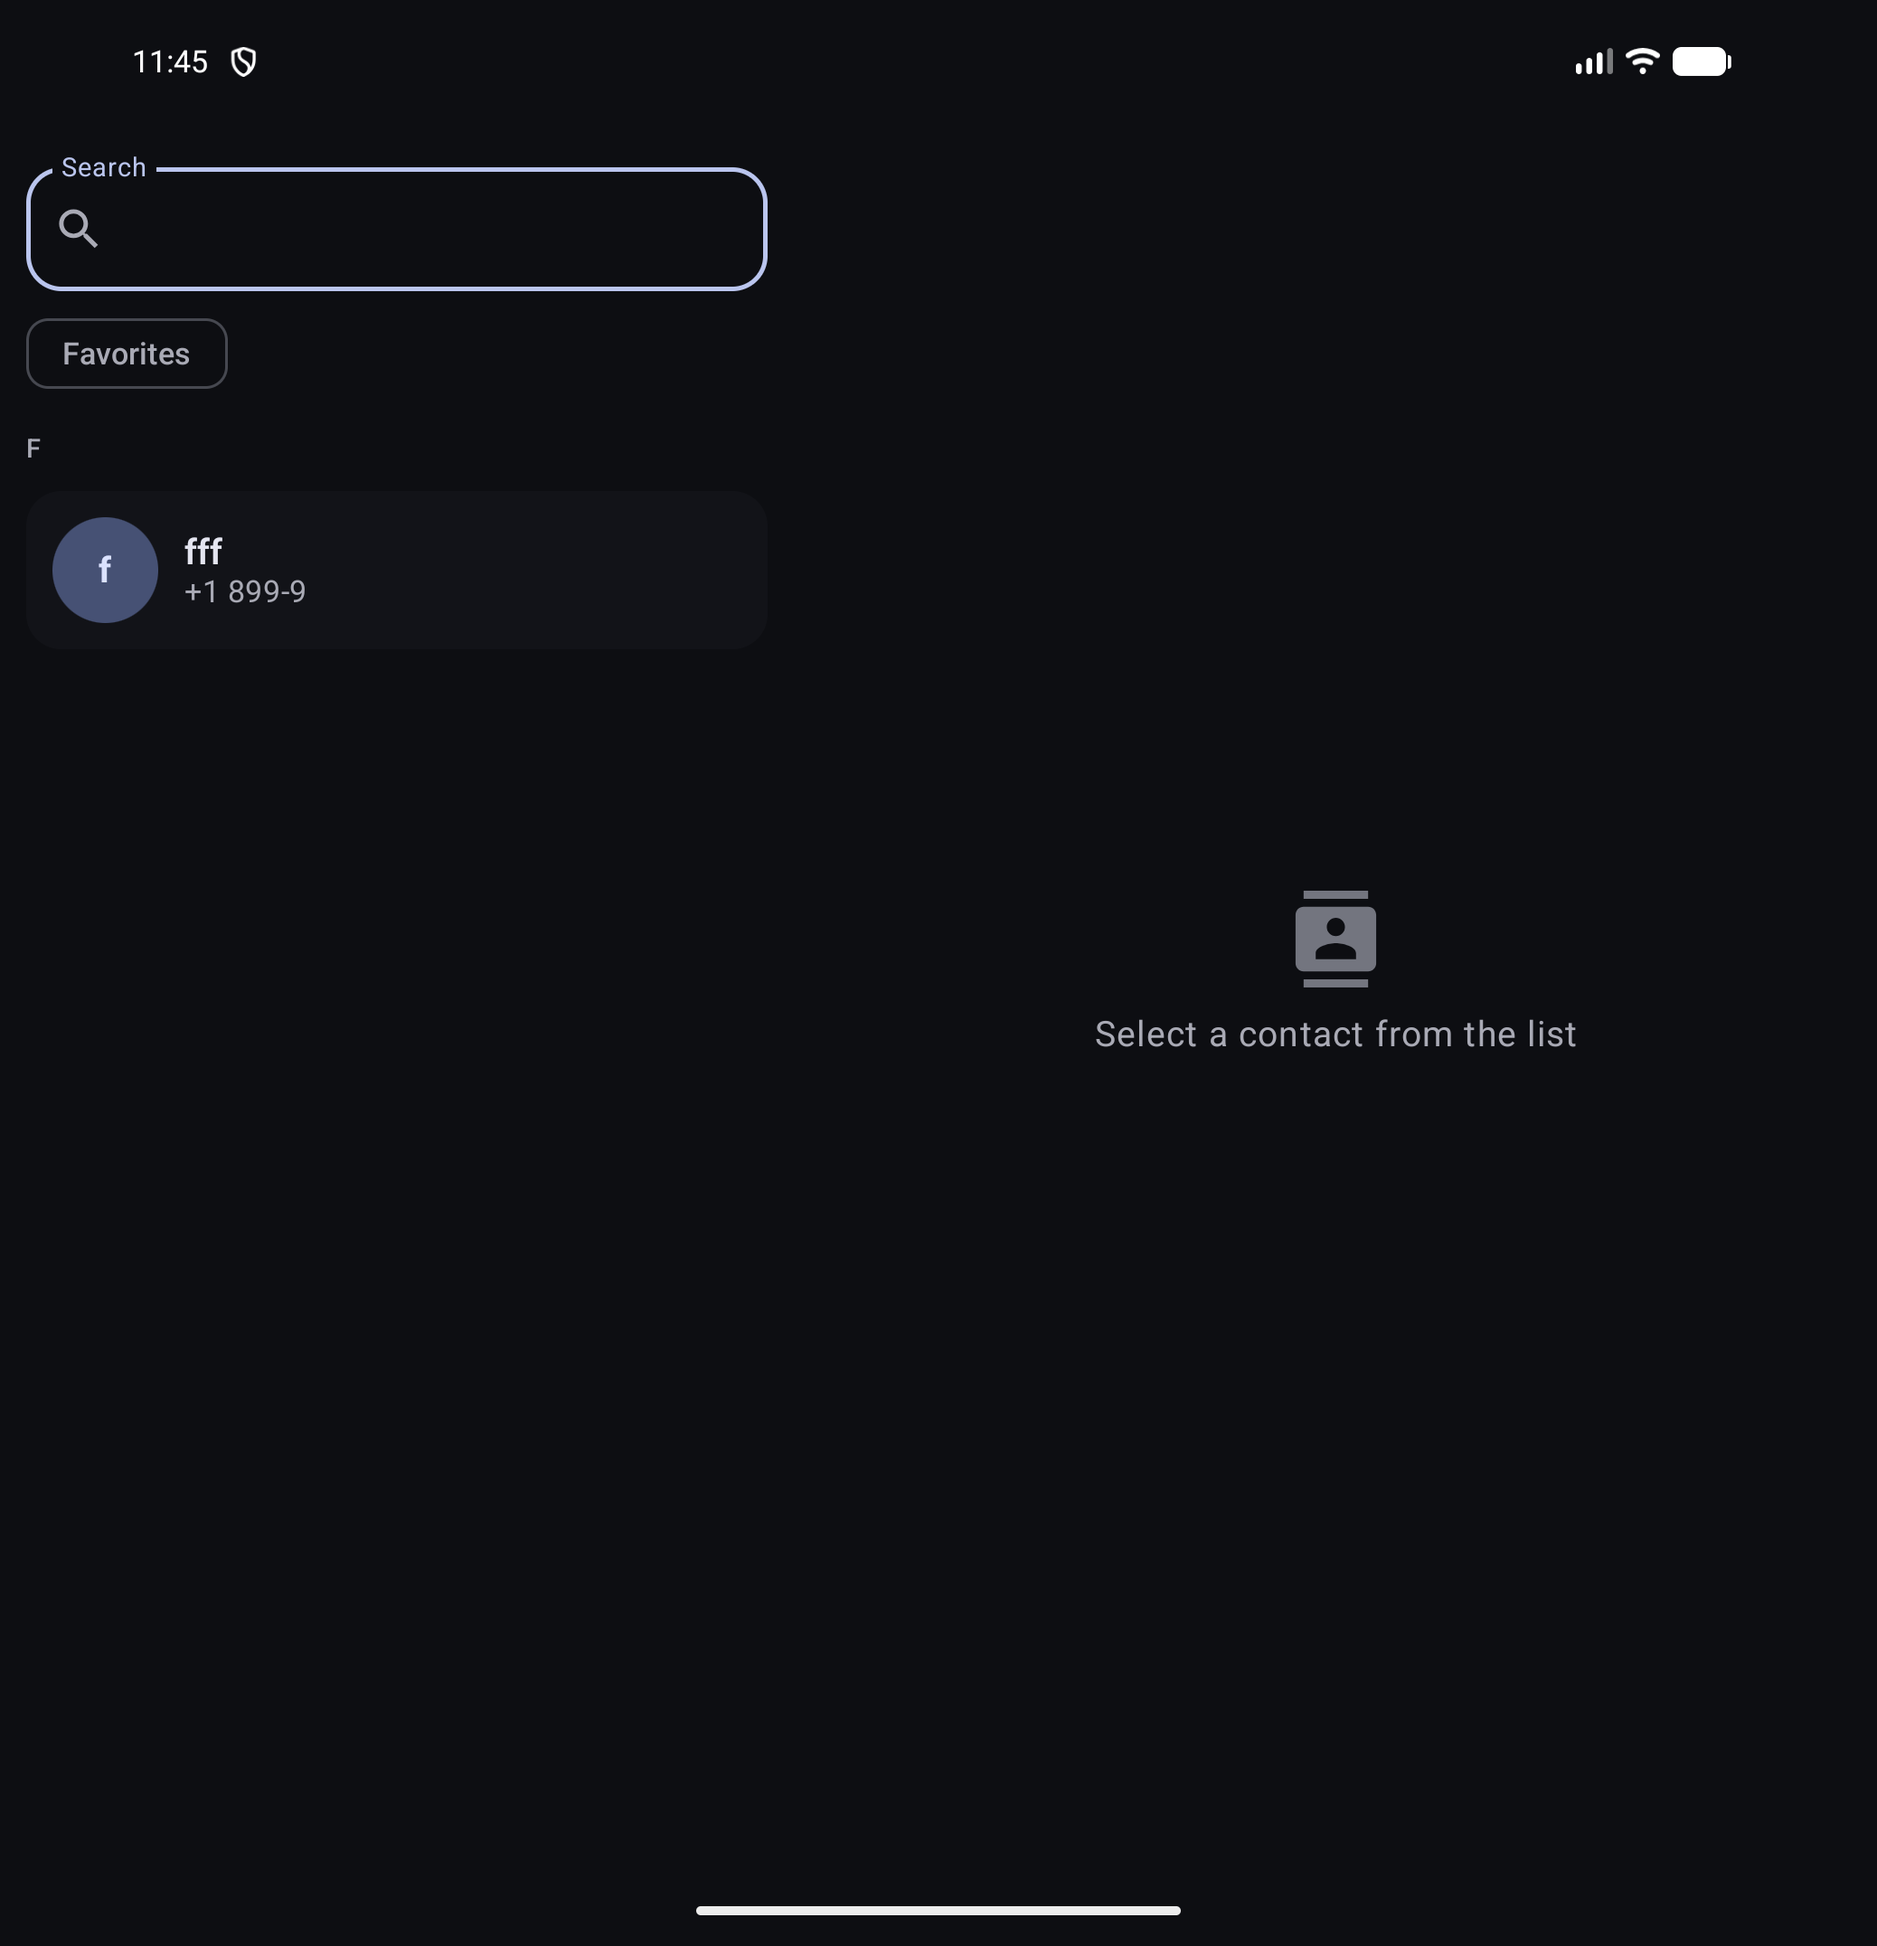
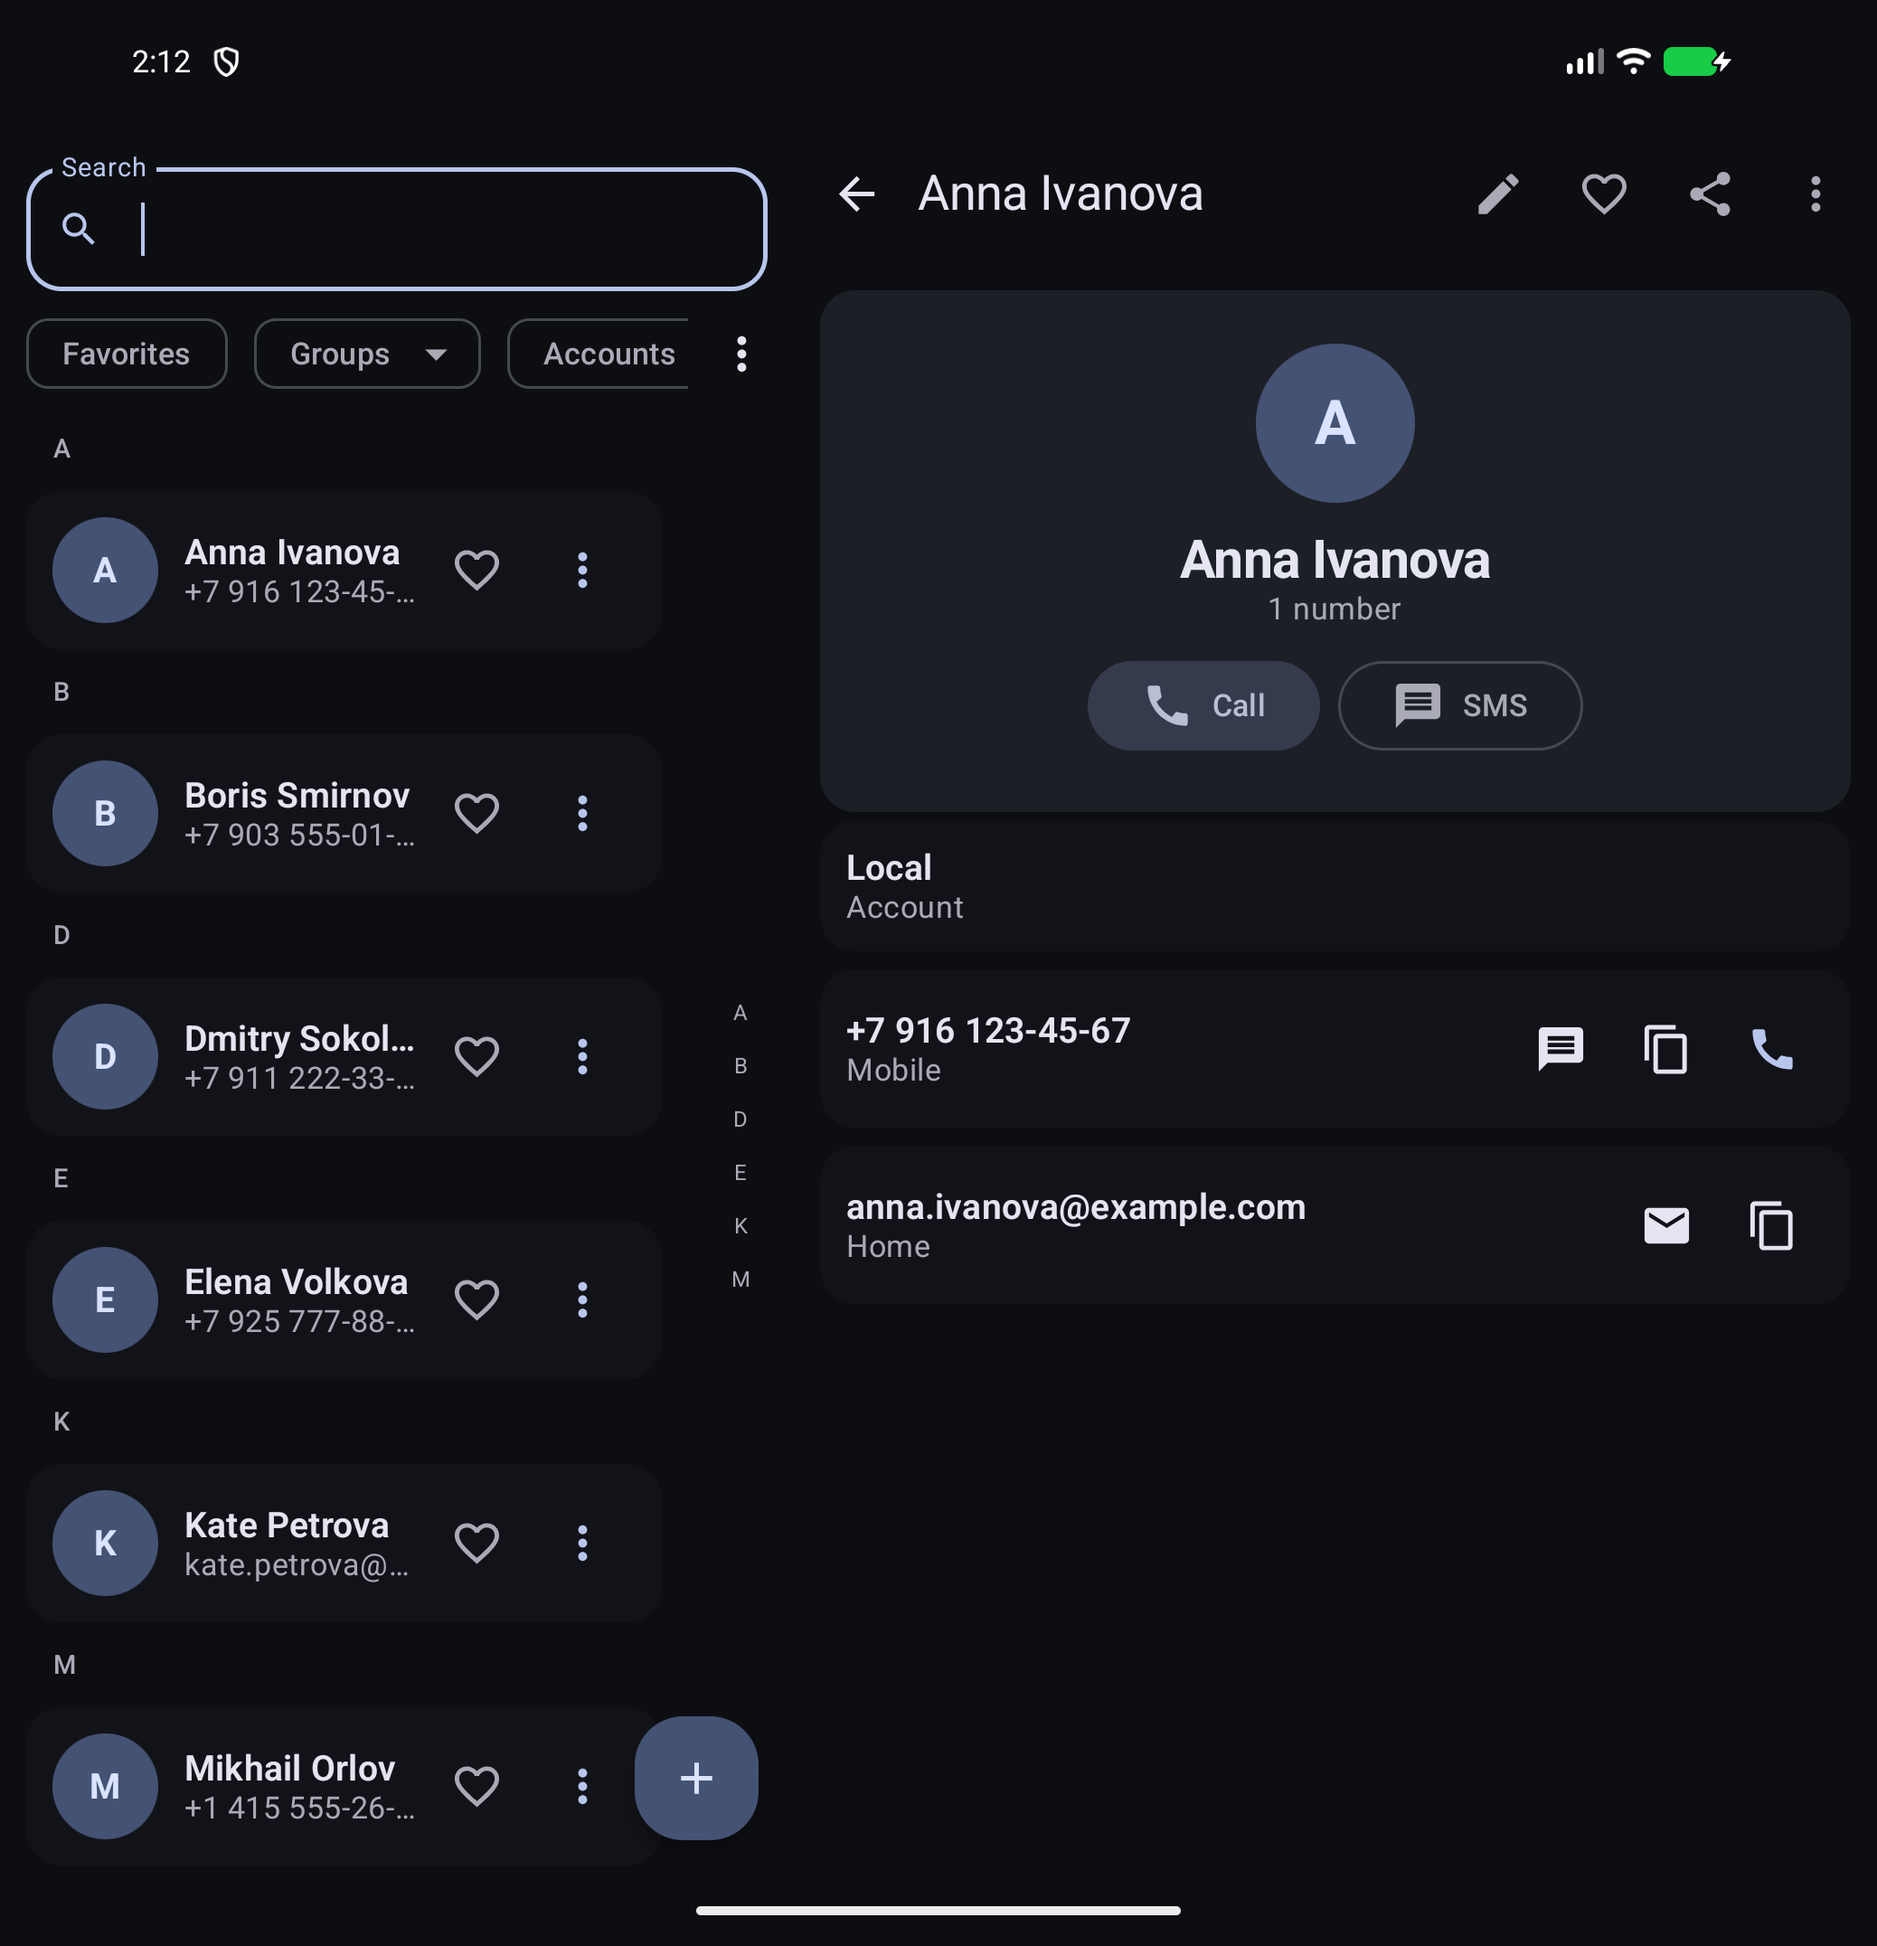
docs: refresh screenshots and test counts in the README
The screenshots predated the second UX pass: they showed the old row layout, the empty detail pane, and a throwaway test contact. Both are retaken on the current UI with realistic demo data — a dark two-pane list on the fold with a selected contact, and a light phone-width details screen. The unit/instrumented counts (775/119) are current after the backlog work; the list and theme bullets mention the row overflow actions, empty-state recovery, and theme-aware system bars.

diff --git a/README.md b/README.md
@@ -8,7 +8,7 @@ A native Android contacts manager built with modern Jetpack libraries and Clean 
 
 ## Features
 
-- Contact list: search by name (including structured name components: given/family/middle/prefix/suffix and their phonetics), phone, email, nickname, relation names, company, address, website, note and group names; favorites filter; group (label) filter from the header chip; account filter; alphabetical grouping with fast scroller; pull-to-refresh; phoneless contacts stay visible; multi-select mode (long press) with select all, batch delete (with confirmation and undo via a snackbar), batch vCard sharing and batch add to a group; import from a .vcf file with a preview of duplicates and invalid entries, export of the selected contacts to a .vcf file; the list is read page by page, so the first rows show up immediately on a large base
+- Contact list: search by name (including structured name components: given/family/middle/prefix/suffix and their phonetics), phone, email, nickname, relation names, company, address, website, note and group names; favorites filter; group (label) filter from the header chip; account filter; alphabetical grouping with fast scroller; pull-to-refresh; phoneless contacts stay visible; multi-select mode (long press or Select all from the header menu) with batch delete (with confirmation and undo via a snackbar), batch vCard sharing and batch add to a group; every row carries an overflow menu with call, SMS, email and copy actions plus a favorites toggle; filtered-out empty states offer one-tap recovery (clear search/filters); import from a .vcf file with a preview of duplicates and invalid entries, export of the selected contacts to a .vcf file; the list is read page by page, so the first rows show up immediately on a large base
 - Contact details: phones, emails, instant messengers, structured addresses (street, city, region, postcode, country), websites, organization (company, title, department), note, birthday, nickname, relations (family, friends, etc.), events (anniversaries and custom dates with labels), the account the contact belongs to and group memberships (labels with account ownership); the primary phone and email are used as the subtitle; call (with confirmation), SMS, email, IM, map, open link and copy actions; "add to calendar" for a birthday and an event (the next occurrence of the date); vCard, plain text and QR code sharing; favorites toggle; copy and move to another account
 - Contact editor: create, update and delete contacts; account picker for new contacts (local storage or a synced account) that remembers the last used account; existing contacts show their account and only offer groups from it; structured name — a single full-name field or given/family/middle/prefix/suffix components with phonetic variants, toggled with an animated chevron; multi-raw contacts are updated consistently (deterministic target raw contact, group membership rows of all raw contacts reconciled); photo pick from the gallery or the camera with cropping and preview, removal and a round write to the provider; dynamic typed rows for phones, emails, instant messengers, addresses, websites, relations and events (with custom labels, optional year for dates and a shared date picker); group membership picker filtered by the contact's account, with inline creation of a new group in that account; nickname field; validation of email, phone, URL and date with a clear message (the values are normalized before they are written: the domain of an email is lower cased, the formatting of a phone is dropped, a site gets the https scheme), an unsaved-changes guard and a warning with a path to merge a likely duplicate
 - Groups (labels): a dedicated screen to create, rename, delete and merge groups with member counts and account labels, opened from the list filter or the filter chip menu; members can be removed from the group screen; group pickers and the group filter distinguish same-name groups from different accounts
@@ -17,7 +17,7 @@ A native Android contacts manager built with modern Jetpack libraries and Clean 
 - Privacy: the PIN lock covers the whole app and asks again when the app is genuinely backgrounded; the PIN is stored as a PBKDF2-HMAC-SHA256 hash with a random salt, not in clear text; after a few wrong attempts the input is blocked for a while; the window can be hidden from the recent apps list with `FLAG_SECURE`
 - Reminders: a daily local notification lists the birthdays and events that are coming up; tapping the notification opens the contact; reminders are restored after reboot and request `POST_NOTIFICATIONS` on Android 13+
 - Home screen: launcher shortcuts (new contact, favorites) and a widget with the favorite contacts
-- Favorites are stored as `STARRED` rows in the provider, so they survive a sync; Material You dynamic color; adaptive two-pane layout on wide screens
+- Favorites are stored as `STARRED` rows in the provider, so they survive a sync; Material You dynamic color; the status/navigation bars follow the app theme; adaptive two-pane layout on wide screens
 
 ## Architecture
 
@@ -60,7 +60,7 @@ Android permissions used: `READ_CONTACTS` (list), `WRITE_CONTACTS` (editing and 
 
 ```bash
 ./gradlew :app:assembleDebug          # debug APK
-./gradlew :domain:test :data:testDebugUnitTest :app:testDebugUnitTest  # 754 unit tests
-./gradlew :app:connectedDebugAndroidTest  # 102 Compose UI tests (needs a running emulator)
+./gradlew :domain:test :data:testDebugUnitTest :app:testDebugUnitTest  # 775 unit tests
+./gradlew :app:connectedDebugAndroidTest  # 119 instrumented tests (needs a running emulator)
 ./gradlew detekt ktlintCheck          # static analysis, all modules
 ```
